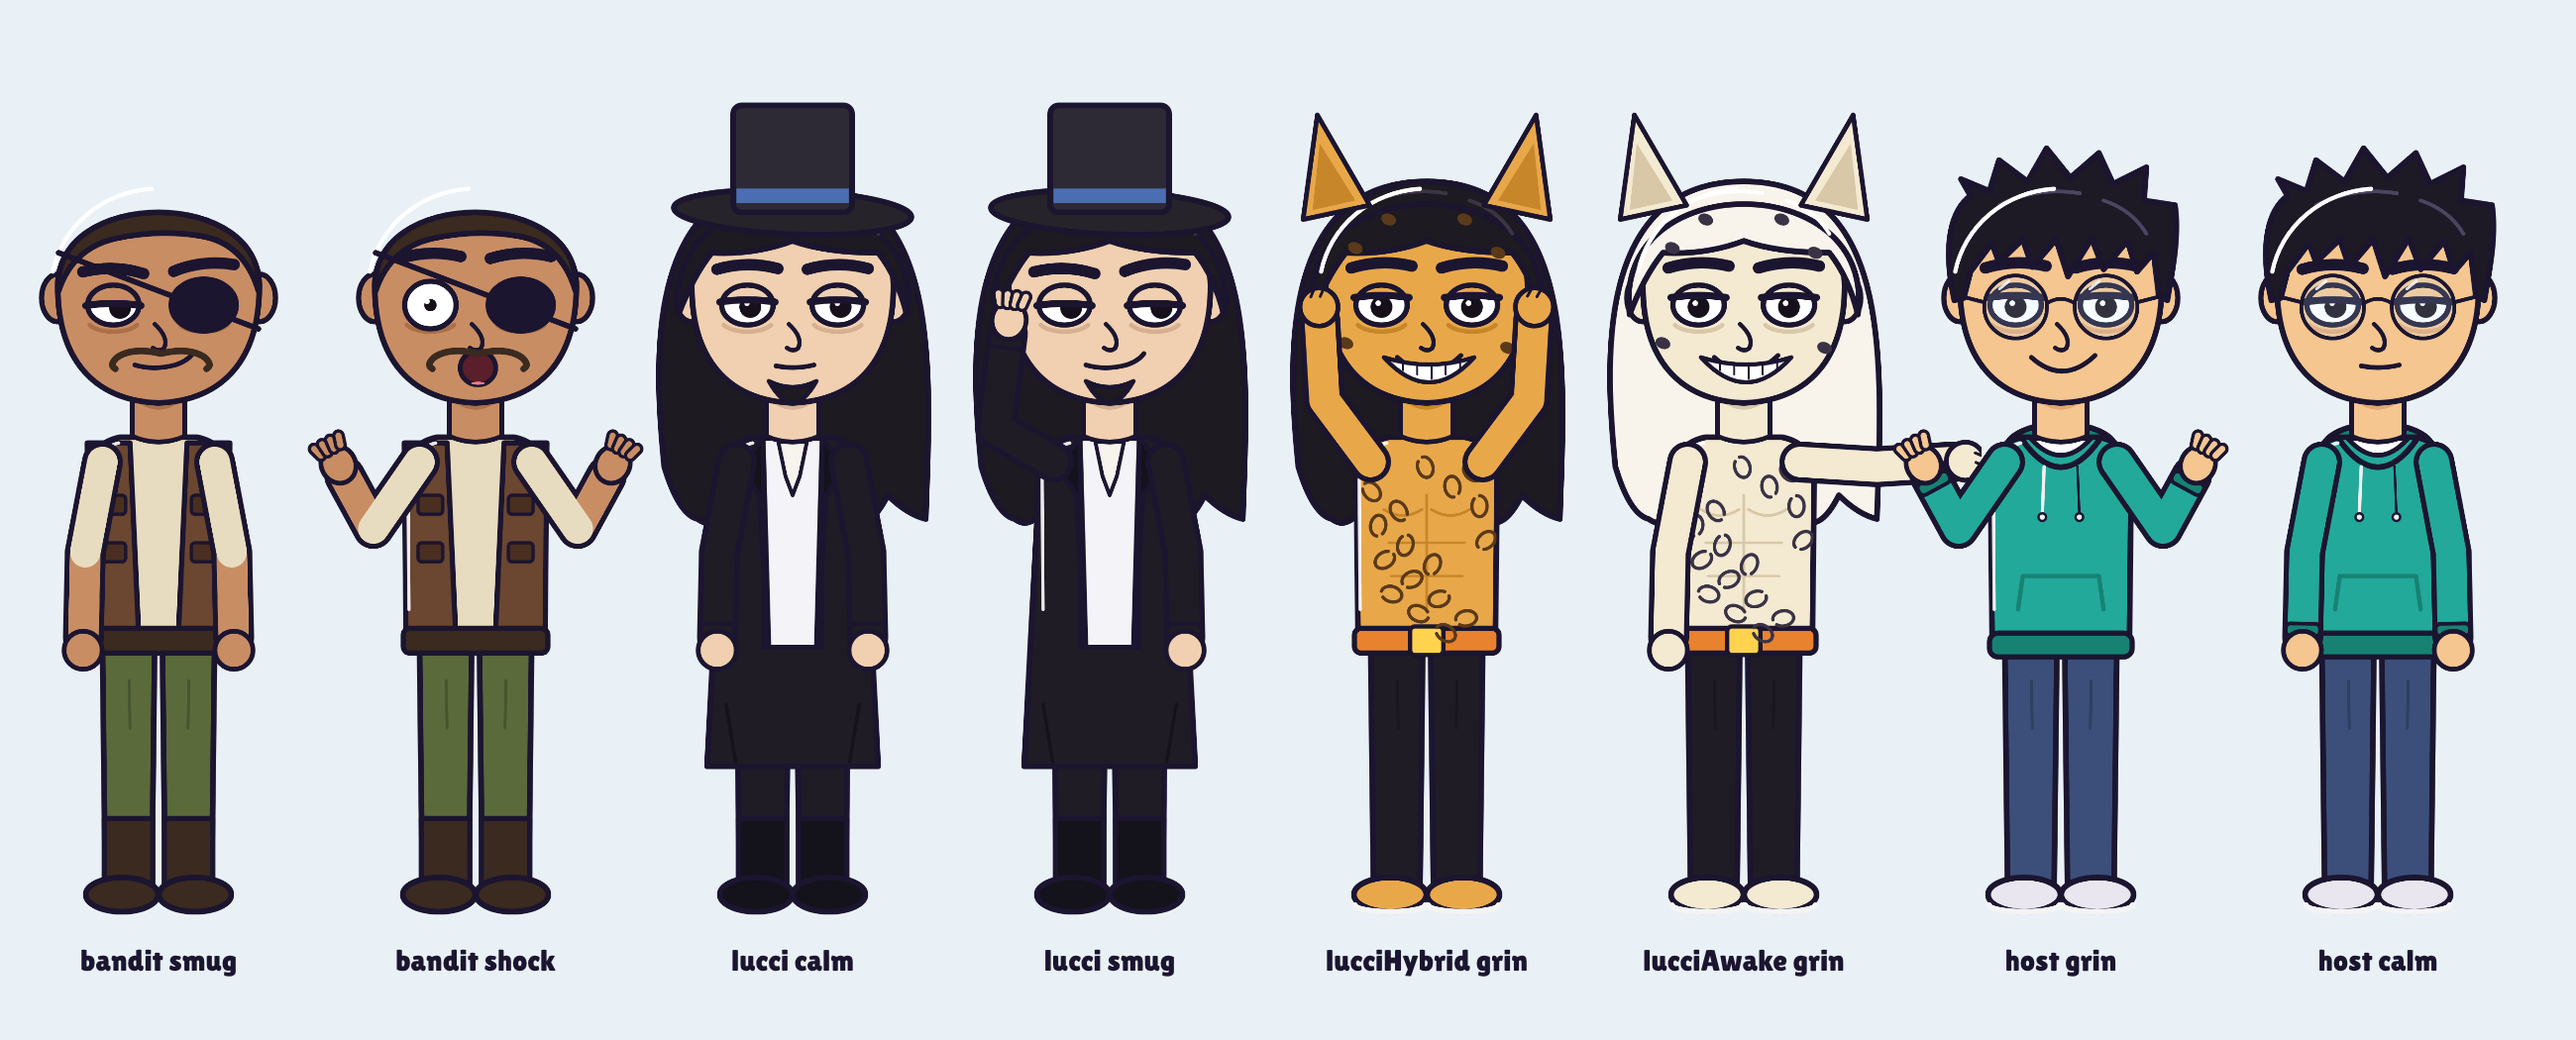
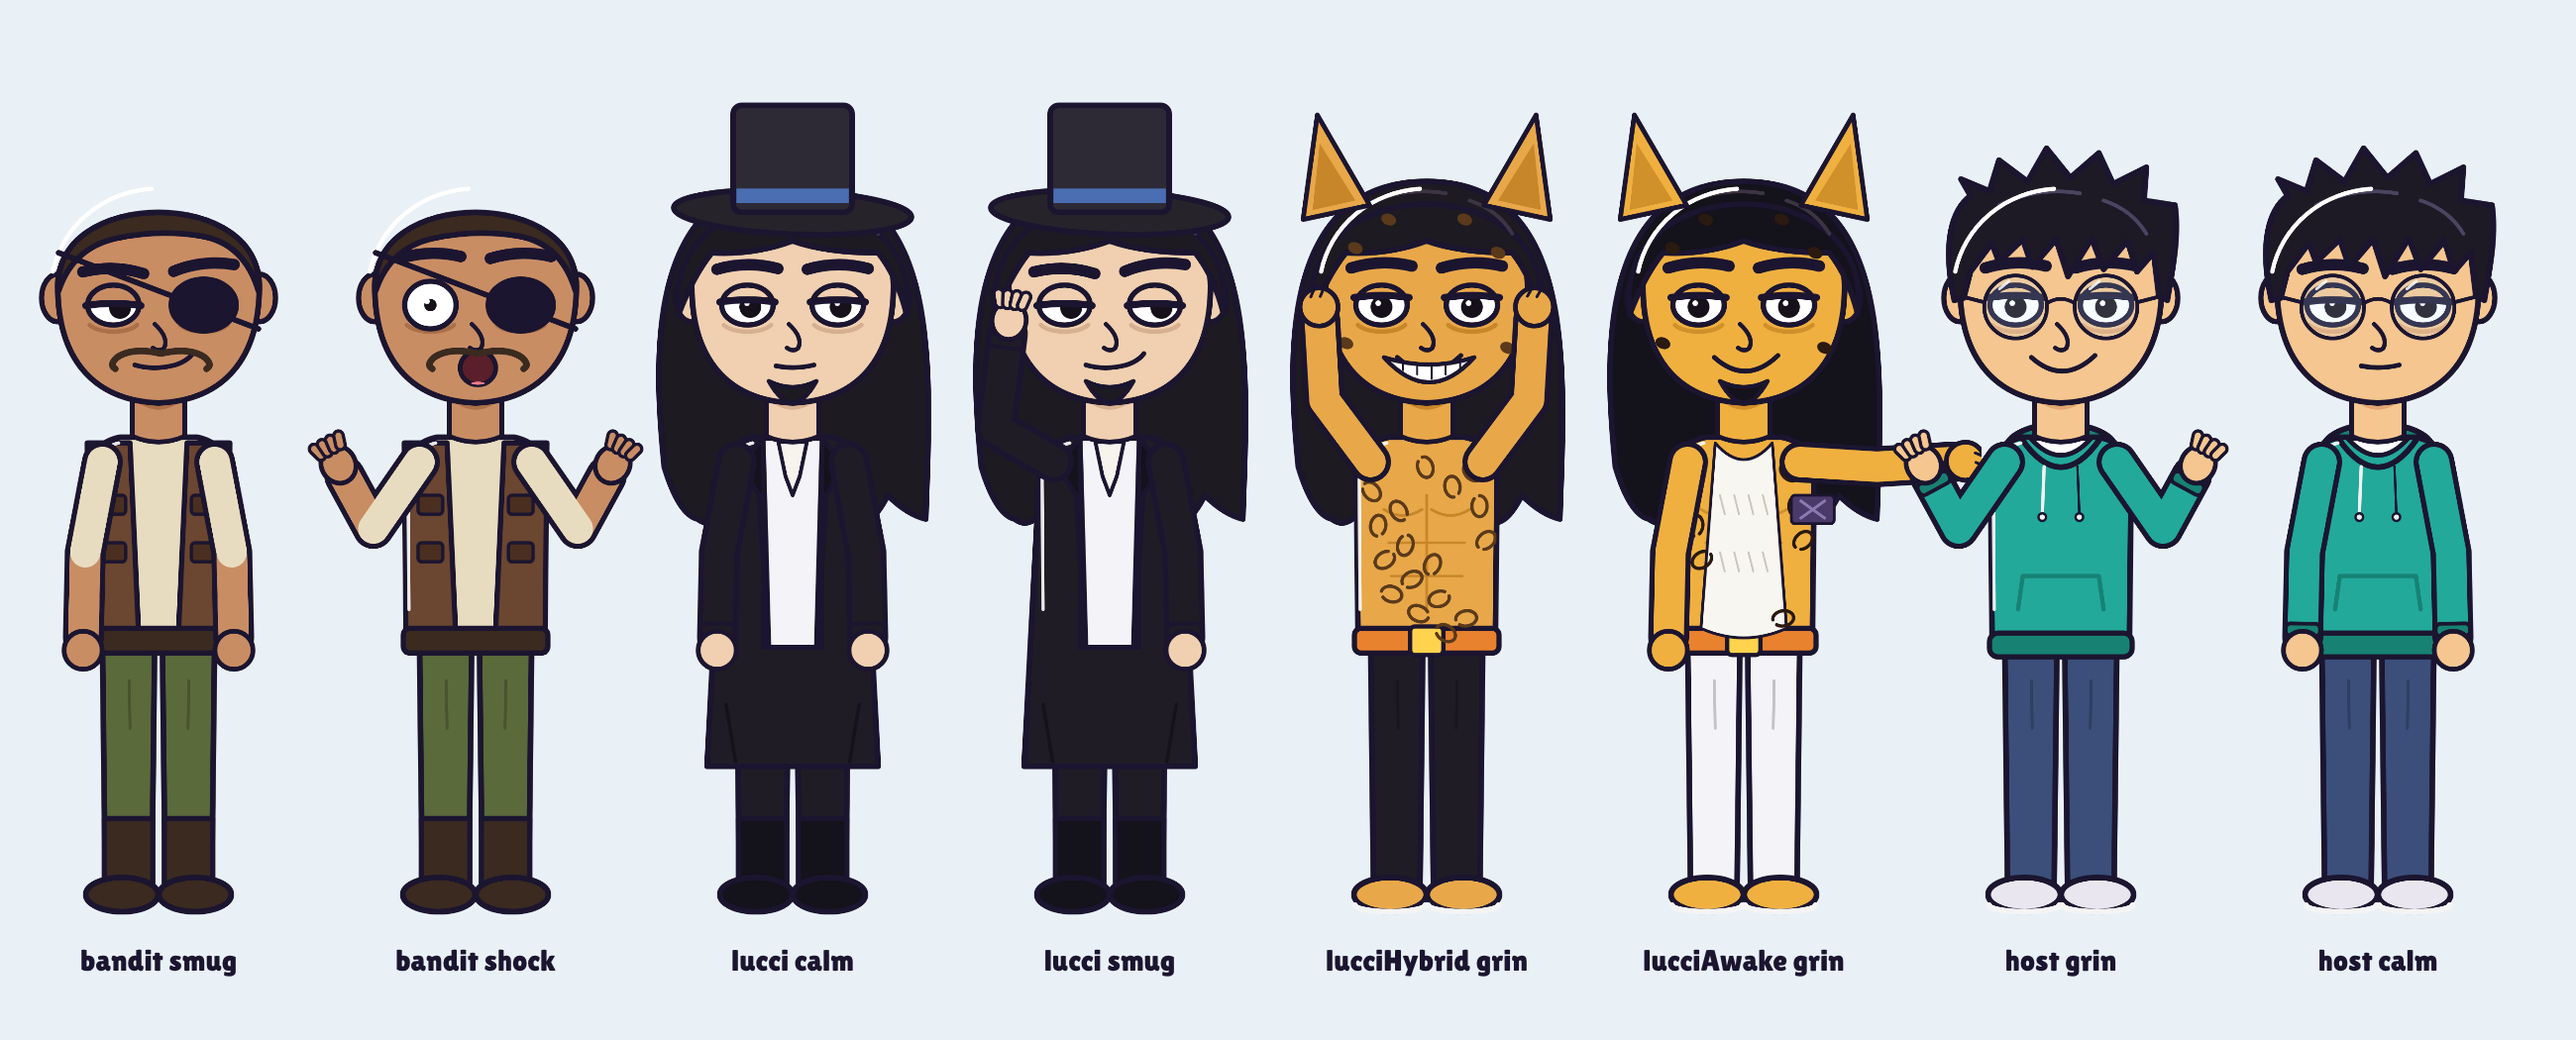
Leopard: awakened Lucci matched to reference (gold spots, white chest and pants, black mane, black smoke clouds)
Claude-Session: https://claude.ai/code/session_01LedSfqc1zbW4UvWfiqXE3c

Changed region(s): [[0.6231, 0.1219, 0.7788, 0.8838]]

diff --git a/shorts/leopard/story.js b/shorts/leopard/story.js
@@ -22,13 +22,16 @@ export function leopard(x, cx, by, s, t, o = {}) {
 }
 function pigeon(x, cx, cy, s) { x.save(); x.translate(cx, cy); x.scale(s, s); x.beginPath(); x.ellipse(0, 0, 60, 46, 0, 0, 7); A.fs(x, '#f4f4f8', 7); x.beginPath(); x.arc(46, -34, 28, 0, 7); A.fs(x, '#f4f4f8', 7); x.beginPath(); x.moveTo(70, -34); x.lineTo(96, -28); x.lineTo(70, -24); x.closePath(); A.fs(x, '#ffcf3a', 4); x.beginPath(); x.arc(52, -40, 5, 0, 7); x.fillStyle = A.OL; x.fill(); x.beginPath(); x.moveTo(20, -10); x.lineTo(46, 8); x.lineTo(20, 14); x.closePath(); A.fs(x, '#e8303c', 4); x.restore(); }
 function shockRing(x, cx, cy, k, col = '255,255,255') { if (k <= 0 || k >= 1) return; for (let i = 0; i < 3; i++) { const r = (60 + 600 * k) * (1 - i * 0.18); x.beginPath(); x.arc(cx, cy, r, 0, 7); x.lineWidth = 18 * (1 - k); x.strokeStyle = `rgba(${col},${(1 - k) * (1 - i * 0.25)})`; x.stroke(); } }
-function whiteAura(x, cx, cy, r, t) { for (let i = 0; i < 10; i++) { const a = i / 10 * 6.283 + t, rr = r * (1 + 0.1 * Math.sin(t * 4 + i)); x.beginPath(); x.arc(cx + Math.cos(a) * rr * 0.7, cy + Math.sin(a) * rr, r * 0.35, 0, 7); x.fillStyle = 'rgba(255,255,255,0.35)'; x.fill(); } }
+function whiteAura(x, cx, cy, r, t) { // black smoke clouds pouring off the awakened form (named for history)
+  for (let i = 0; i < 14; i++) { const a = i / 14 * 6.283 + t * 0.6, rr = r * (0.9 + 0.15 * Math.sin(t * 3 + i)), px = cx + Math.cos(a) * rr * 0.75, py = cy + Math.sin(a) * rr;
+    x.beginPath(); x.arc(px, py, r * 0.22, 0, 7); x.arc(px + r * 0.12, py - r * 0.1, r * 0.16, 0, 7); x.fillStyle = '#121016'; x.fill();
+    x.beginPath(); x.arc(px + r * 0.05, py, r * 0.08, 0.3, 4.5); x.lineWidth = 4; x.strokeStyle = '#d9c870'; x.stroke(); } }
 export function nekoIcon(x, k, cx, cy, s, t) {
   x.save(); x.translate(cx, cy); x.scale(s, s);
   if (k === 1) leopard(x, 0, 120, 0.42, t);
   else if (k === 2) { x.beginPath(); x.arc(0, -20, 90, 0, 7); A.fs(x, '#e8a84a', 8); for (const sd of [-1, 1]) { x.beginPath(); x.moveTo(sd * 50, -90); x.lineTo(sd * 90, -170); x.lineTo(sd * 100, -60); x.closePath(); A.fs(x, '#e8a84a', 6); } }
   else if (k === 3) { A.fist(x, 0, 0, 0.6, '#e8a84a'); shockRing(x, 0, 0, (t * 0.8) % 1); }
-  else { A.glow(x, 0, 0, 180, '255,255,255', 0.7); whiteAura(x, 0, 0, 120, t); leopard(x, 0, 120, 0.4, t, { white: true }); }
+  else { whiteAura(x, 0, 0, 130, t); leopard(x, 0, 120, 0.4, t); }
   x.restore();
 }
 
@@ -87,17 +90,17 @@ export function buildShots(TL) {
 
   // ---------------- AWAKENING (peak) ----------------
   const tStr = W('awaken', /^stronger/) - 0.1;
-  add({ name: 'Awakening (futuristic lab): the shockwave icon gives way to the awakened icon, white halo; gold AWAKENED banner; white flash; the leopard-man\'s fur turns pale white with a cloudy white aura', t0: st('awaken'), t1: tStr, bg: 'futureLab',
+  add({ name: 'Awakening (futuristic lab): the shockwave icon gives way to the awakened icon, gold halo; gold AWAKENED banner; flash; black smoke clouds burst off the leopard-man, white chest, white pants', t0: st('awaken'), t1: tStr, bg: 'futureLab',
     cam: [[1.0, 540, 980, 0], [1.08, 540, 940, 0.02]], banners: [['AWAKENED', 'gold', W('awaken', /^awaken/) - 0.1, end('awaken'), 'slide']], sfx: [[0, 'evolve'], [W('awaken', /^awaken/) - st('awaken'), 'charge']],
     draw(x, S) {
-      halo(x, 540, 900, 620, '255,255,255', S.T);
+      halo(x, 540, 900, 620, '255,220,120', S.T);
       if (S.t < 0.5) { A.glowRing(x, 540, 820, 320 * prog(S.t, 0, 0.5), 1 - prog(S.t, 0.2, 0.5), '255,255,255'); evolve(x, S, 3, 4, 540, 820, 1.5, 0.45, nekoIcon); return; }
       const ta = W('awaken', /^awaken/), aw = S.T > ta + 0.1;
-      if (aw) whiteAura(x, 540, 1300, 380, S.T);
-      person(x, S, aw ? 'lucciAwake' : 'lucciHybrid', 'grin', 540, 1780, 0.82, { seed: 7, pose: 'cheer', sx: 1.2 });
+      if (aw) whiteAura(x, 540, 950, 470, S.T);
+      person(x, S, aw ? 'lucciAwake' : 'lucciHybrid', 'grin', 540, 1780, 0.82, { seed: 7, pose: 'cheer', sx: 1.2 }); if (aw) { whiteAura(x, 330, 1100, 110, S.T + 1.3); whiteAura(x, 750, 1100, 110, S.T + 2.1); }
       if (S.T > ta) { S.flash = Math.max(S.flash, 0.9 * (1 - prog(S.T, ta, ta + 0.4))); S.flashCol = '255,255,255'; }
     } });
-  add({ name: 'Awakened speed (same lab, wide): the white leopard-man blurs across the room in a zig-zag of after-images and flattens the bandit; impact star, shake', t0: tStr, t1: end('awaken'), bg: 'futureLab',
+  add({ name: 'Awakened speed (same lab, wide): the awakened leopard-man blurs across the room in a zig-zag of after-images and flattens the bandit; impact star, shake', t0: tStr, t1: end('awaken'), bg: 'futureLab',
     cam: [[1.0, 540, 1000, -0.02], [1.06, 560, 990, -0.04]], sfx: [[0.1, 'zip'], [0.6, 'impact']],
     draw(x, S) { const u = ease.smoother(prog(S.t, 0, 0.6)); for (let i = 0; i < 4; i++) { const v = Math.max(0, u - i * 0.12); person(x, S, 'lucciAwake', 'shout', lerp(160, 560, v), 1780, 0.66, { seed: 7, pose: 'punch', sx: 1.15, alpha: i ? 0.25 : 1 }); }
       const hit = S.t > 0.6; const e = person(x, S, 'bandit', hit ? 'hit' : 'shock', 860, 1780, 0.56, { seed: 3, pose: 'shrug', flip: true, rot: hit ? 1.2 * prog(S.t, 0.6, 1.0) : 0 });
@@ -110,7 +113,7 @@ export function buildShots(TL) {
   const tStay = W('truth', /^but/) - 0.1;
   add({ name: 'Mind takeover (mind spiral): a wild beast silhouette swirls in on the spiral, trying to swallow a little Lucci head; purple TAKEOVER banner', t0: st('truth'), t1: tStay, bg: 'mindSpiral',
     cam: [[1.05, 540, 1000, -0.02], [1.15, 540, 990, -0.04]], banners: [['MIND TAKEOVER', 'pink', W('truth', /^take/) - 0.1, tStay]], sfx: [[0, 'whoosh'], [0.5, 'rumble']],
-    draw(x, S) { x.save(); x.translate(540, 900); x.rotate(S.T * 0.8); x.translate(-540, -900); leopard(x, 600, 1100, 1.3, S.T, { white: true }); x.restore(); A.mark(x, '!?', 800, 600, pop(S.T, S.t0 + 0.4)); } });
+    draw(x, S) { x.save(); x.translate(540, 900); x.rotate(S.T * 0.8); x.translate(-540, -900); leopard(x, 600, 1100, 1.3, S.T); whiteAura(x, 600, 800, 300, S.T); x.restore(); A.mark(x, '!?', 800, 600, pop(S.T, S.t0 + 0.4)); } });
   add({ name: 'Still himself (same spiral fades): calm Lucci in his top hat, pigeon on his shoulder, unbothered; green STILL HIMSELF banner', t0: tStay, t1: end('truth'), bg: 'mindSpiral',
     cam: [[1.15, 540, 1000, 0.02], [1.22, 540, 990, 0.035]], banners: [['STILL HIMSELF', 'green', tStay + 0.2, end('truth')]], sfx: [[0.1, 'ding']],
     draw(x, S) { const l = person(x, S, 'lucci', 'calm', 540, 1800, 0.84, { seed: 8, pose: 'idle' }); pigeon(x, l.head[0] + 210, l.head[1] + 280, 0.8); } });
@@ -122,7 +125,7 @@ export function buildShots(TL) {
     draw(x, S) { const l = person(x, S, 'lucci', 'smug', 540, 1820, 0.84, { pop: S.t0 + 0.05, seed: 8, pose: 'idle' }); pigeon(x, l.head[0] + 210, l.head[1] + 280, 0.8); } });
   add({ name: 'Versus Luffy (futuristic egg-dome island): the awakened leopard-man squares off against Luffy; red VS LUFFY banner', t0: tLuffy, t1: end('users'), bg: 'eggheadIsle',
     cam: [[1.0, 540, 1000, -0.02], [1.08, 540, 990, 0.03]], banners: [['ENIES LOBBY + EGGHEAD', 'red', tLuffy + 0.3, end('users')]], sfx: [[0.1, 'whoosh'], [0.6, 'impact']],
-    draw(x, S) { whiteAura(x, 780, 1350, 300, S.T); person(x, S, 'lucciAwake', 'shout', 780, 1800, 0.7, { seed: 7, pose: 'punch', flip: true, sx: 1.15 }); person(x, S, 'luffy', 'shout', 280, 1800, 0.66, { seed: 4, pose: 'punch' }); A.impactStar(x, 530, 1200, 120 * Math.abs(Math.sin(S.T * 3)), 0.3); } });
+    draw(x, S) { whiteAura(x, 780, 1100, 380, S.T); person(x, S, 'lucciAwake', 'shout', 780, 1800, 0.7, { seed: 7, pose: 'punch', flip: true, sx: 1.15 }); person(x, S, 'luffy', 'shout', 280, 1800, 0.66, { seed: 4, pose: 'punch' }); A.impactStar(x, 530, 1200, 120 * Math.abs(Math.sin(S.T * 3)), 0.3); } });
 
   // ---------------- JOKE ----------------
   add({ name: 'Joke (night rooftops): the host trips off a roof, flips mid-air and lands perfectly on his feet like a cat, then sips his coffee; green ALWAYS LANDS banner', t0: st('joke'), t1: end('joke'), bg: 'catRooftops',

diff --git a/engine/art.js b/engine/art.js
@@ -97,8 +97,8 @@ export const LOOKS = {
           top: 'coat', cloth: '#1f1c26', clothD: '#14121a', inner: '#f4f4f8', innerD: '#cfd0dc', cravat: true, pants: '#1f1c26', shoe: '#14121a', boots: true, cuff: '#1f1c26' },
   lucciHybrid: { skin: '#e8a84a', skinD: '#c8862a', hair: '#1d1a22', hairL: '#3d3443', hairStyle: 'long', catEars: true, leopardSpots: true, grinWide: true,
           top: 'bare', pants: '#1f1c26', shoe: '#e8a84a', boots: false, arm: '#e8a84a', glove: '#e8a84a' },
-  lucciAwake: { skin: '#f4ead2', skinD: '#d8c8a8', hair: '#f8f4ec', hairL: '#ffffff', hairStyle: 'long', catEars: true, leopardSpots: true, spotCol: '#3a3346', grinWide: true,
-          top: 'bare', pants: '#1f1c26', shoe: '#f4ead2', boots: false, arm: '#f4ead2', glove: '#f4ead2' },
+  lucciAwake: { skin: '#f0b040', skinD: '#d0902a', hair: '#14121a', hairL: '#4a4458', hairStyle: 'curlyBig', catEars: true, leopardSpots: true, spotCol: '#2a1a10', goatee: true, grinWide: false,
+          top: 'bare', whiteChest: true, armBand: true, pants: '#f4f4f8', shoe: '#f0b040', boots: false, arm: '#f0b040', glove: '#f0b040' },
   bandit: { skin: '#c98d64', skinD: '#ab7049', hair: '#3a2a20', hairL: '#5b4434', hairStyle: 'short', eyePatch: true, stache2: true,
           top: 'vest', cloth: '#6b4630', clothD: '#4a2f20', inner: '#e8dcc0', pants: '#5a6a3a', shoe: '#3a2a20', boots: true, arm: '#e8dcc0', sleeveSkin: true },
   bege: { skin: '#f0c8a0', skinD: '#d6a880', hair: '#1d1a22', hairL: '#3d3443', hairStyle: 'short', hat: 'fedora', blueMouth: true, grinWide: true, goatee: true, cigar: true,
@@ -289,7 +289,8 @@ function drawTorso(x, L) {
     rrect(x, 228, 1040, 304, 52, 14); fs(x, '#e8822e', 11); rrect(x, 345, 1036, 70, 60, 10); fs(x, '#ffd34d', 9); // belt + buckle
   }
   if (L.tattoo) { x.save(); x.translate(380, 820); x.strokeStyle = '#3f5fc0'; x.lineWidth = 16; x.lineCap = 'round'; x.beginPath(); x.moveTo(-70, -70); x.lineTo(70, 70); x.moveTo(70, -70); x.lineTo(-70, 70); x.stroke(); x.beginPath(); x.arc(0, -10, 44, 0, 7); x.fillStyle = '#3f5fc0'; x.fill(); x.beginPath(); x.moveTo(-60, -40); x.quadraticCurveTo(0, -20, 60, -40); x.lineWidth = 12; x.strokeStyle = '#3f5fc0'; x.stroke(); x.restore(); }
-  if (L.leopardSpots && L.top === 'bare') { x.save(); x.beginPath(); x.moveTo(236, 1090); x.lineTo(232, 720); x.quadraticCurveTo(236, 650, 300, 638); x.lineTo(460, 638); x.quadraticCurveTo(524, 650, 528, 720); x.lineTo(524, 1090); x.closePath(); x.clip(); x.lineWidth = 7; x.strokeStyle = L.spotCol || '#5a3a1a'; for (let i = 0; i < 18; i++) { const sx = 250 + (i * 71) % 270, sy = 680 + ((i * 113) % 380); x.beginPath(); x.ellipse(sx, sy, 22, 16, i, 0, 5.5); x.stroke(); } x.restore(); }
+  if (L.whiteChest) { x.beginPath(); x.moveTo(320, 650); x.quadraticCurveTo(380, 720, 440, 650); x.lineTo(470, 1040); x.quadraticCurveTo(380, 1080, 290, 1040); x.closePath(); fs(x, '#f8f6f0', 6); x.strokeStyle = 'rgba(160,150,140,0.5)'; x.lineWidth = 4; for (let i = 0; i < 8; i++) { x.beginPath(); x.moveTo(330 + (i % 4) * 30, 760 + Math.floor(i / 4) * 120); x.lineTo(340 + (i % 4) * 30, 800 + Math.floor(i / 4) * 120); x.stroke(); } }
+  if (L.leopardSpots && L.top === 'bare') { x.save(); x.beginPath(); x.moveTo(236, 1090); x.lineTo(232, 720); x.quadraticCurveTo(236, 650, 300, 638); x.lineTo(460, 638); x.quadraticCurveTo(524, 650, 528, 720); x.lineTo(524, 1090); x.closePath(); x.clip(); x.lineWidth = 7; x.strokeStyle = L.spotCol || '#5a3a1a'; for (let i = 0; i < 18; i++) { const sx = 250 + (i * 71) % 270, sy = 680 + ((i * 113) % 380); if (L.whiteChest && sx > 300 && sx < 460) continue; x.beginPath(); x.ellipse(sx, sy, 22, 16, i, 0, 5.5); x.stroke(); } x.restore(); }
   if (L.feathers) { for (let i = 0; i < 16; i++) { const a = Math.PI * (0.95 + i / 15 * 1.1), fx = 380 + Math.cos(a) * 190, fy = 700 + Math.sin(a) * 70 + 40; x.beginPath(); x.ellipse(fx, fy, 34, 52, a + Math.PI / 2, 0, 7); fs(x, i % 2 ? '#2e2a38' : '#1f1c26', 7); } }
   // white rim light on the upper-left edge
   x.beginPath(); x.moveTo(240, 1000); x.lineTo(238, 730); x.quadraticCurveTo(242, 664, 296, 650); x.lineWidth = 7; x.strokeStyle = 'rgba(255,255,255,0.9)'; x.stroke();
@@ -557,6 +558,7 @@ export function drawPerson({ who = 'host', expr = 'calm', mouth = 0, blink = fal
   }
   drawArms(x, L, pose);
   if (L.shoulderPad) shoulderPad(x);
+  if (L.armBand) { rrect(x, 480, 760, 90, 60, 8); fs(x, '#4a3a6a', 6); x.beginPath(); x.moveTo(500, 772); x.lineTo(550, 808); x.moveTo(550, 772); x.lineTo(500, 808); x.lineWidth = 6; x.strokeStyle = '#8a7ab0'; x.stroke(); }
   if (L.armArmor) { x.save(); x.translate(510, 700); x.beginPath(); x.ellipse(0, -10, 80, 70, 0, Math.PI, 0); x.lineTo(80, 30); x.lineTo(-80, 30); x.closePath(); fs(x, '#c8287a', 10); x.beginPath(); x.arc(-10, -40, 16, 0, 7); x.fillStyle = 'rgba(255,255,255,0.7)'; x.fill();
     for (let i = 0; i < 4; i++) { rrect(x, -40, 40 + i * 42, 80, 34, 8); fs(x, '#2a2a30', 6); x.fillStyle = '#d9dce6'; for (let k = 0; k < 3; k++) { x.beginPath(); x.arc(-20 + k * 20, 57 + i * 42, 4, 0, 7); x.fill(); } } x.restore(); }
   return c;

diff --git a/specs/leopard.py b/specs/leopard.py
@@ -15,5 +15,5 @@ SPEC = dict(name='leopard', title='Neko Neko no Mi, Model: Leopard', structure='
   ('joke', 'Users of this fruit always land on their feet.#green')],
  plan=dict(english='Cat-Cat Fruit, Model: Leopard', labels='LEOPARD, HYBRID, SHOCK (Rokuogan), AWAKENED',
   fruit='One Piece Wiki Appearance: **shaped like a leopard\'s head with spots and ears, and a green T-shaped stem curled at one end** (drawn without any face).',
-  cast=['**Enemy (new, original):** a one-eyed bandit with an eye patch, moustache and vest.', '**Rob Lucci:** long black hair, goatee, black top hat, black suit with a white cravat, his pigeon on his shoulder.', '**Leopard forms:** a full leopard; the hybrid (spotted, cat ears, muscular); the awakened form (pale white fur with dark spots and a white aura). Send references if you want them closer.'],
+  cast=['**Enemy (new, original):** a one-eyed bandit with an eye patch, moustache and vest.', '**Rob Lucci:** long black hair, goatee, black top hat, black suit with a white cravat, his pigeon on his shoulder.', '**Leopard forms:** a full leopard; the hybrid (spotted, cat ears, muscular); the awakened form, matched to your reference (gold spotted fur, white chest, black hair, white pants, purple armband, black smoke clouds pouring off him).'],
   sets='savanna, peach rays, jungle vines, rocky outcrop, dojo hall with six scrolls, grass plain, island courthouse, tower rooftop, futuristic lab, iron cage, mind spiral, futuristic egg-dome island, night rooftops.'))

diff --git a/shorts/leopard/PLAN.md b/shorts/leopard/PLAN.md
@@ -40,7 +40,7 @@ Facts used (One Piece Wiki via search):
 - **Host:** same as before.
 - **Enemy (new, original):** a one-eyed bandit with an eye patch, moustache and vest.
 - **Rob Lucci:** long black hair, goatee, black top hat, black suit with a white cravat, his pigeon on his shoulder.
-- **Leopard forms:** a full leopard; the hybrid (spotted, cat ears, muscular); the awakened form (pale white fur with dark spots and a white aura). Send references if you want them closer.
+- **Leopard forms:** a full leopard; the hybrid (spotted, cat ears, muscular); the awakened form, matched to your reference (gold spotted fur, white chest, black hair, white pants, purple armband, black smoke clouds pouring off him).
 - Sheet: `review/cast_sheet.png`.
 
 ## 4. Sets (all new)
